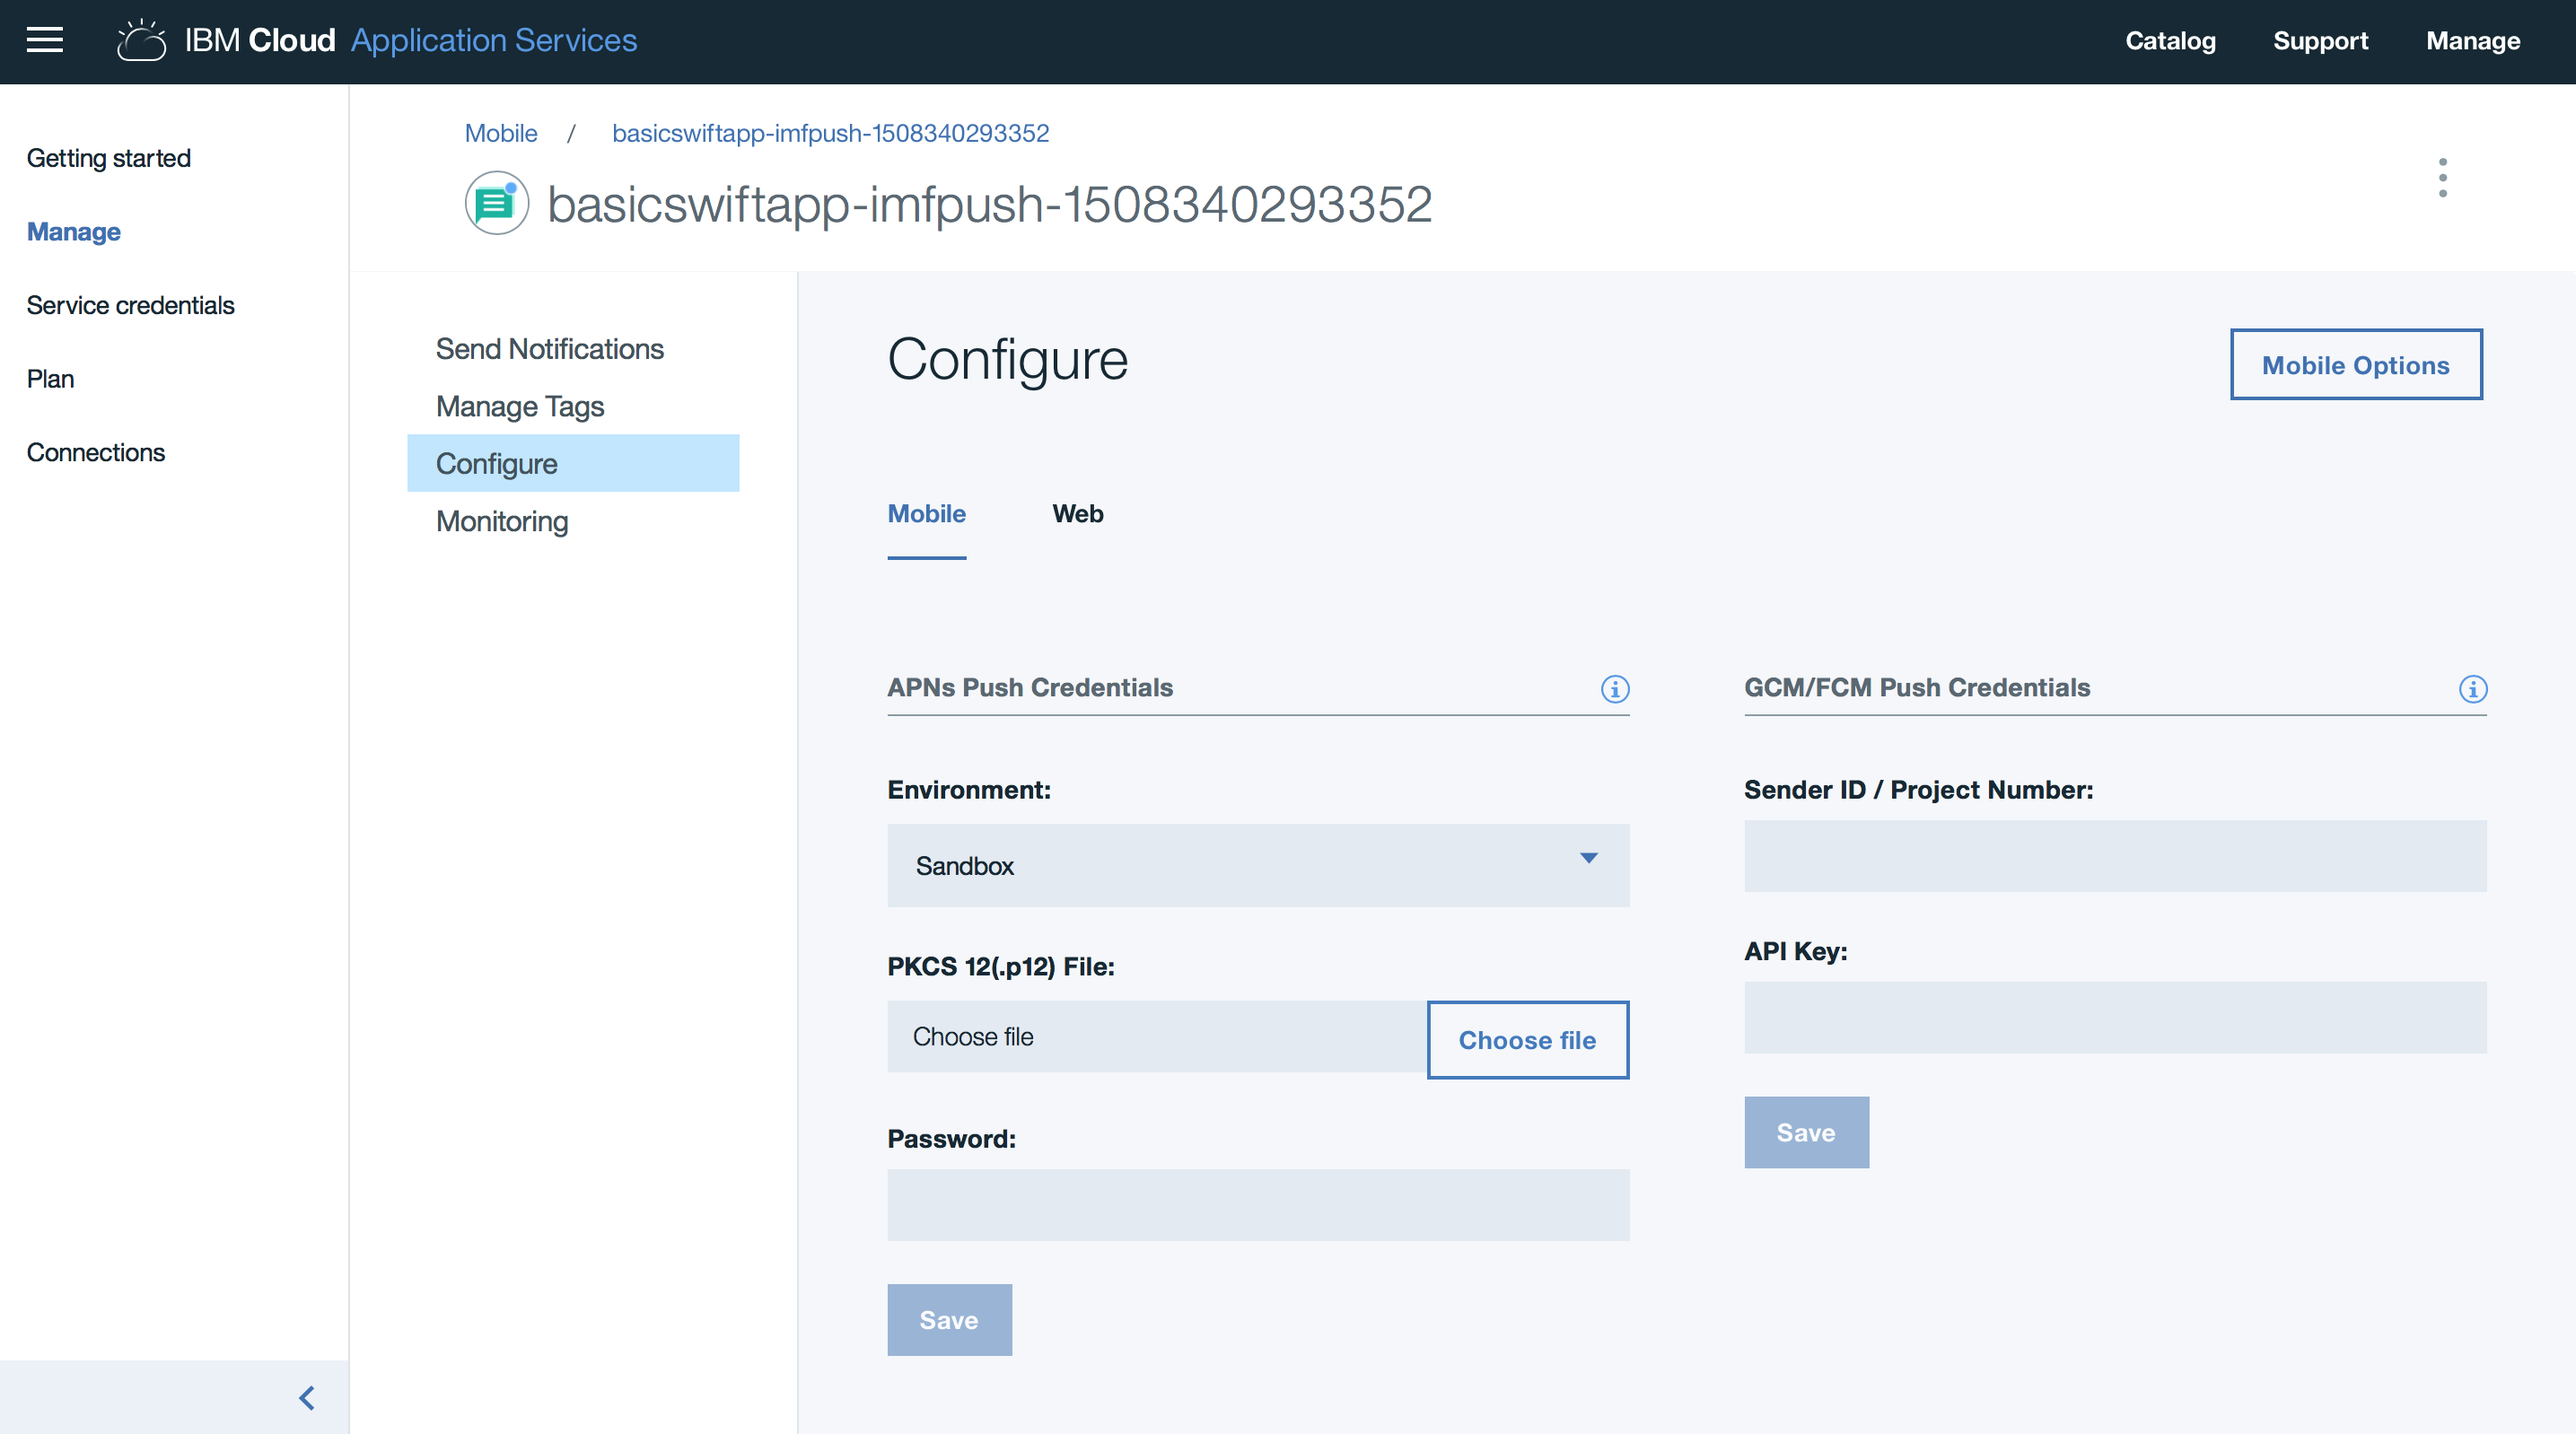
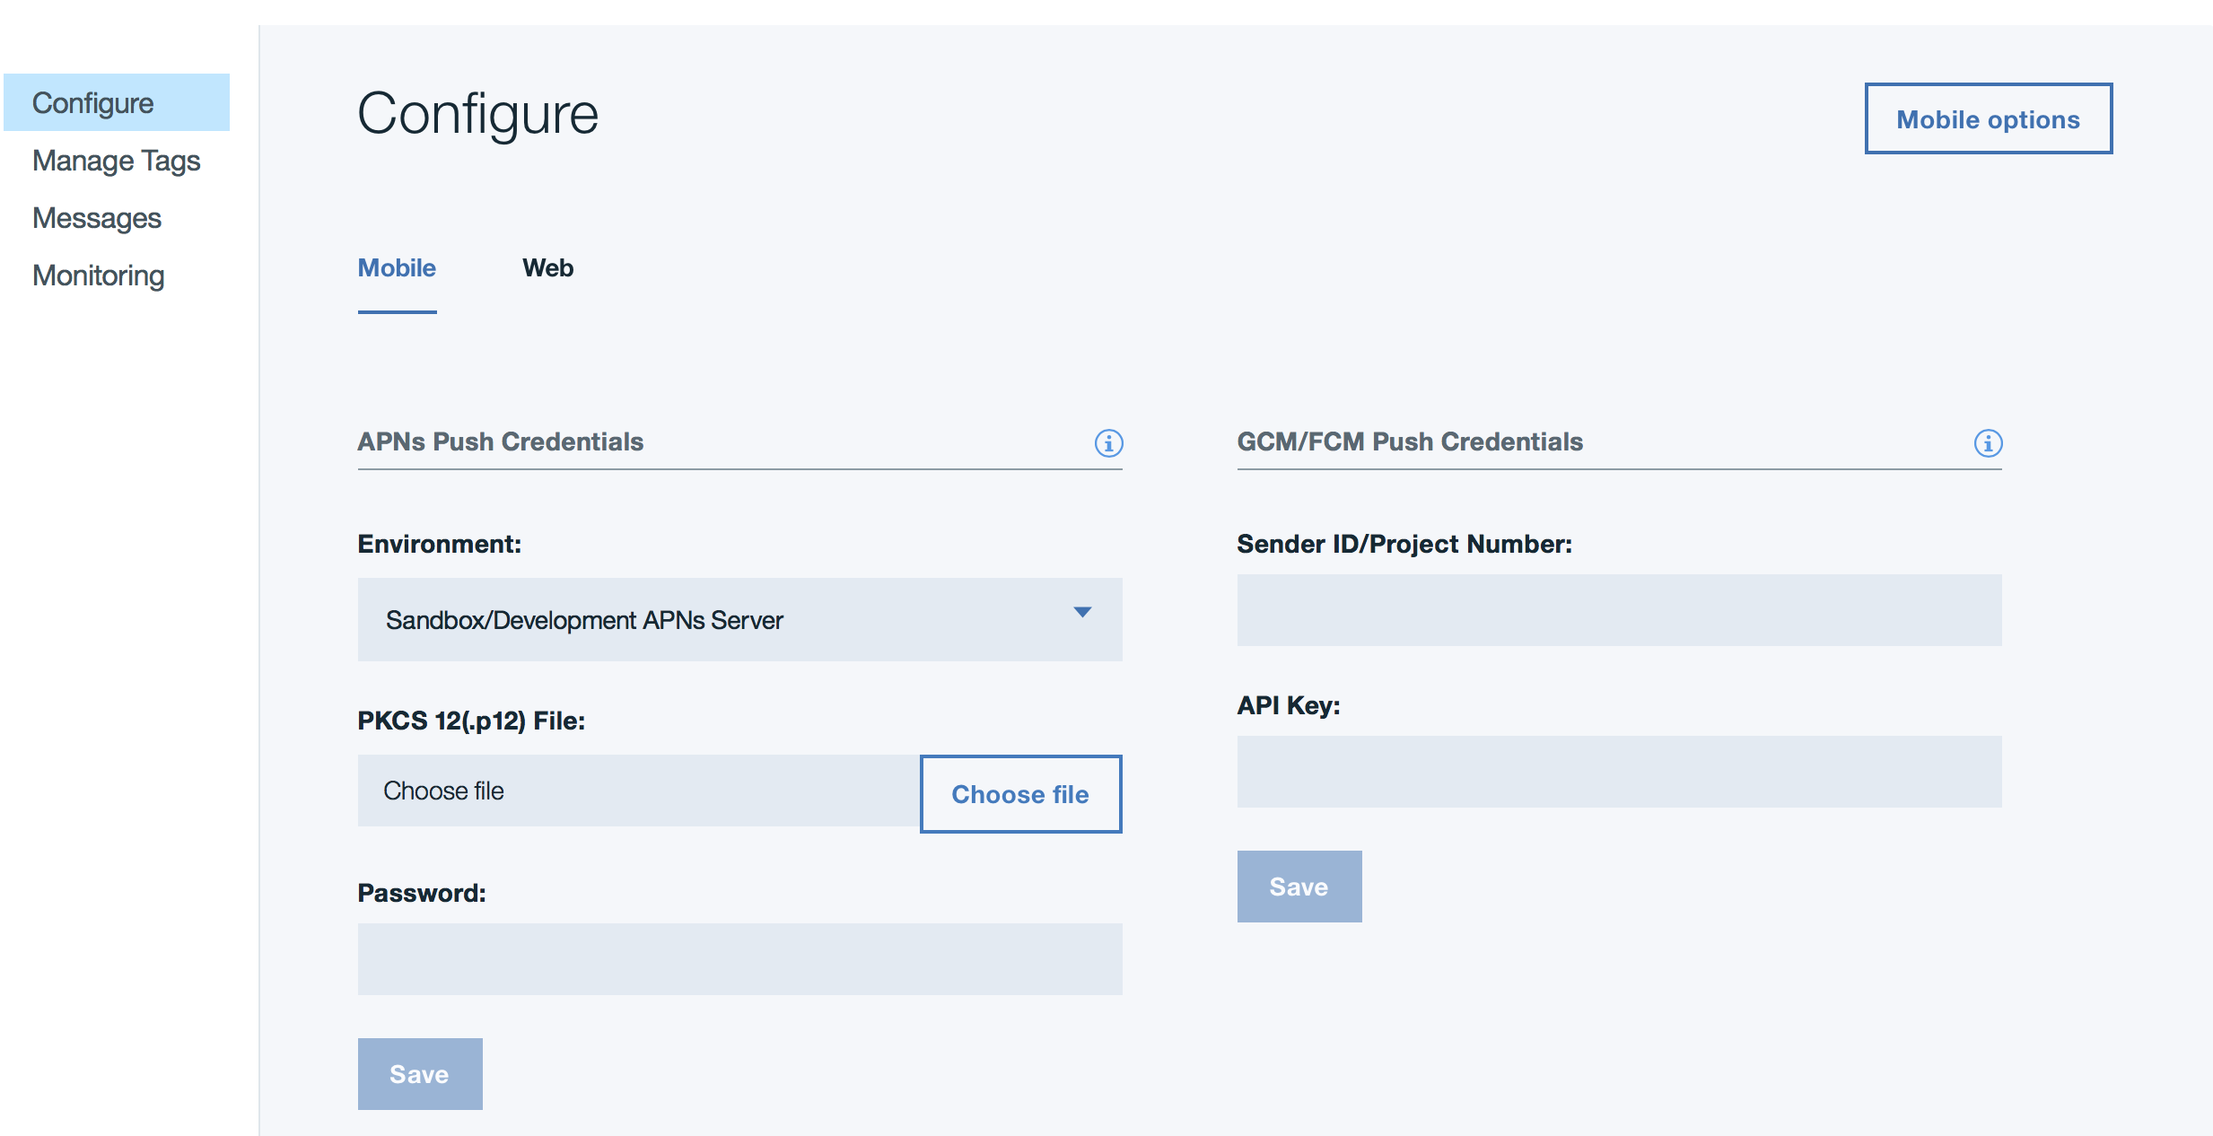
Aligning to mobile terminology changes

diff --git a/ios-mobile-push-analytics.md b/ios-mobile-push-analytics.md
@@ -204,18 +204,16 @@ The downloaded code comes with **{{site.data.keyword.mobilepushshort}}** and **{
 
    **Note:** After the `.cer` file is in your key chain access, export it to your computer to create a `.p12` certificate.
 
-   1. Click on `{{site.data.keyword.mobilepushshort}}` under Services section or Click on the three vertical dots next to the {{site.data.keyword.mobilepushshort}} service and select `Open dashboard`.
-   2. On the {{site.data.keyword.mobilepushshort}} Dashboard, you should see `Configure` option under `Manage > Send Notifications`.
-     ![](images/solution6/push_configure.png)
+      1. Click on `{{site.data.keyword.mobilepushshort}}` under Services section or Click on the three vertical dots next to the {{site.data.keyword.mobilepushshort}} service and select `Open dashboard`.
+      2. On the {{site.data.keyword.mobilepushshort}} Dashboard, you should see `Configure` option under `Manage`.
 
    To set up APNs on the `Push Notification services` console, complete the steps:
 
-   1. Select `Configure` on the Push Notification services Dashboard.
-   2. Choose the `Mobile option` to update the information in the APNs Push Credentials form.
-   3. Select `Sandbox (development)` or `Production (distribution)` as appropriate and then upload the `p.12` certificate that you have created.
-   4. In the Password field, enter the password that is associated with the .p12 certificate file, then click Save.
+      1. Choose the `Mobile option` to update the information in the APNs Push Credentials form.
+      2. Select `Sandbox/Development APNs Server` or `Production APNs Server` as appropriate and then upload the `.p12` certificate that you have created.
+      3. In the Password field, enter the password that is associated with the .p12 certificate file, then click Save.
 
-   ![](images/solution6/Mobile_push_configure.png)
+![](images/solution6/Mobile_push_configure.png)
 
 ## Configure,send, and monitor {{site.data.keyword.mobilepushshort}}
 
